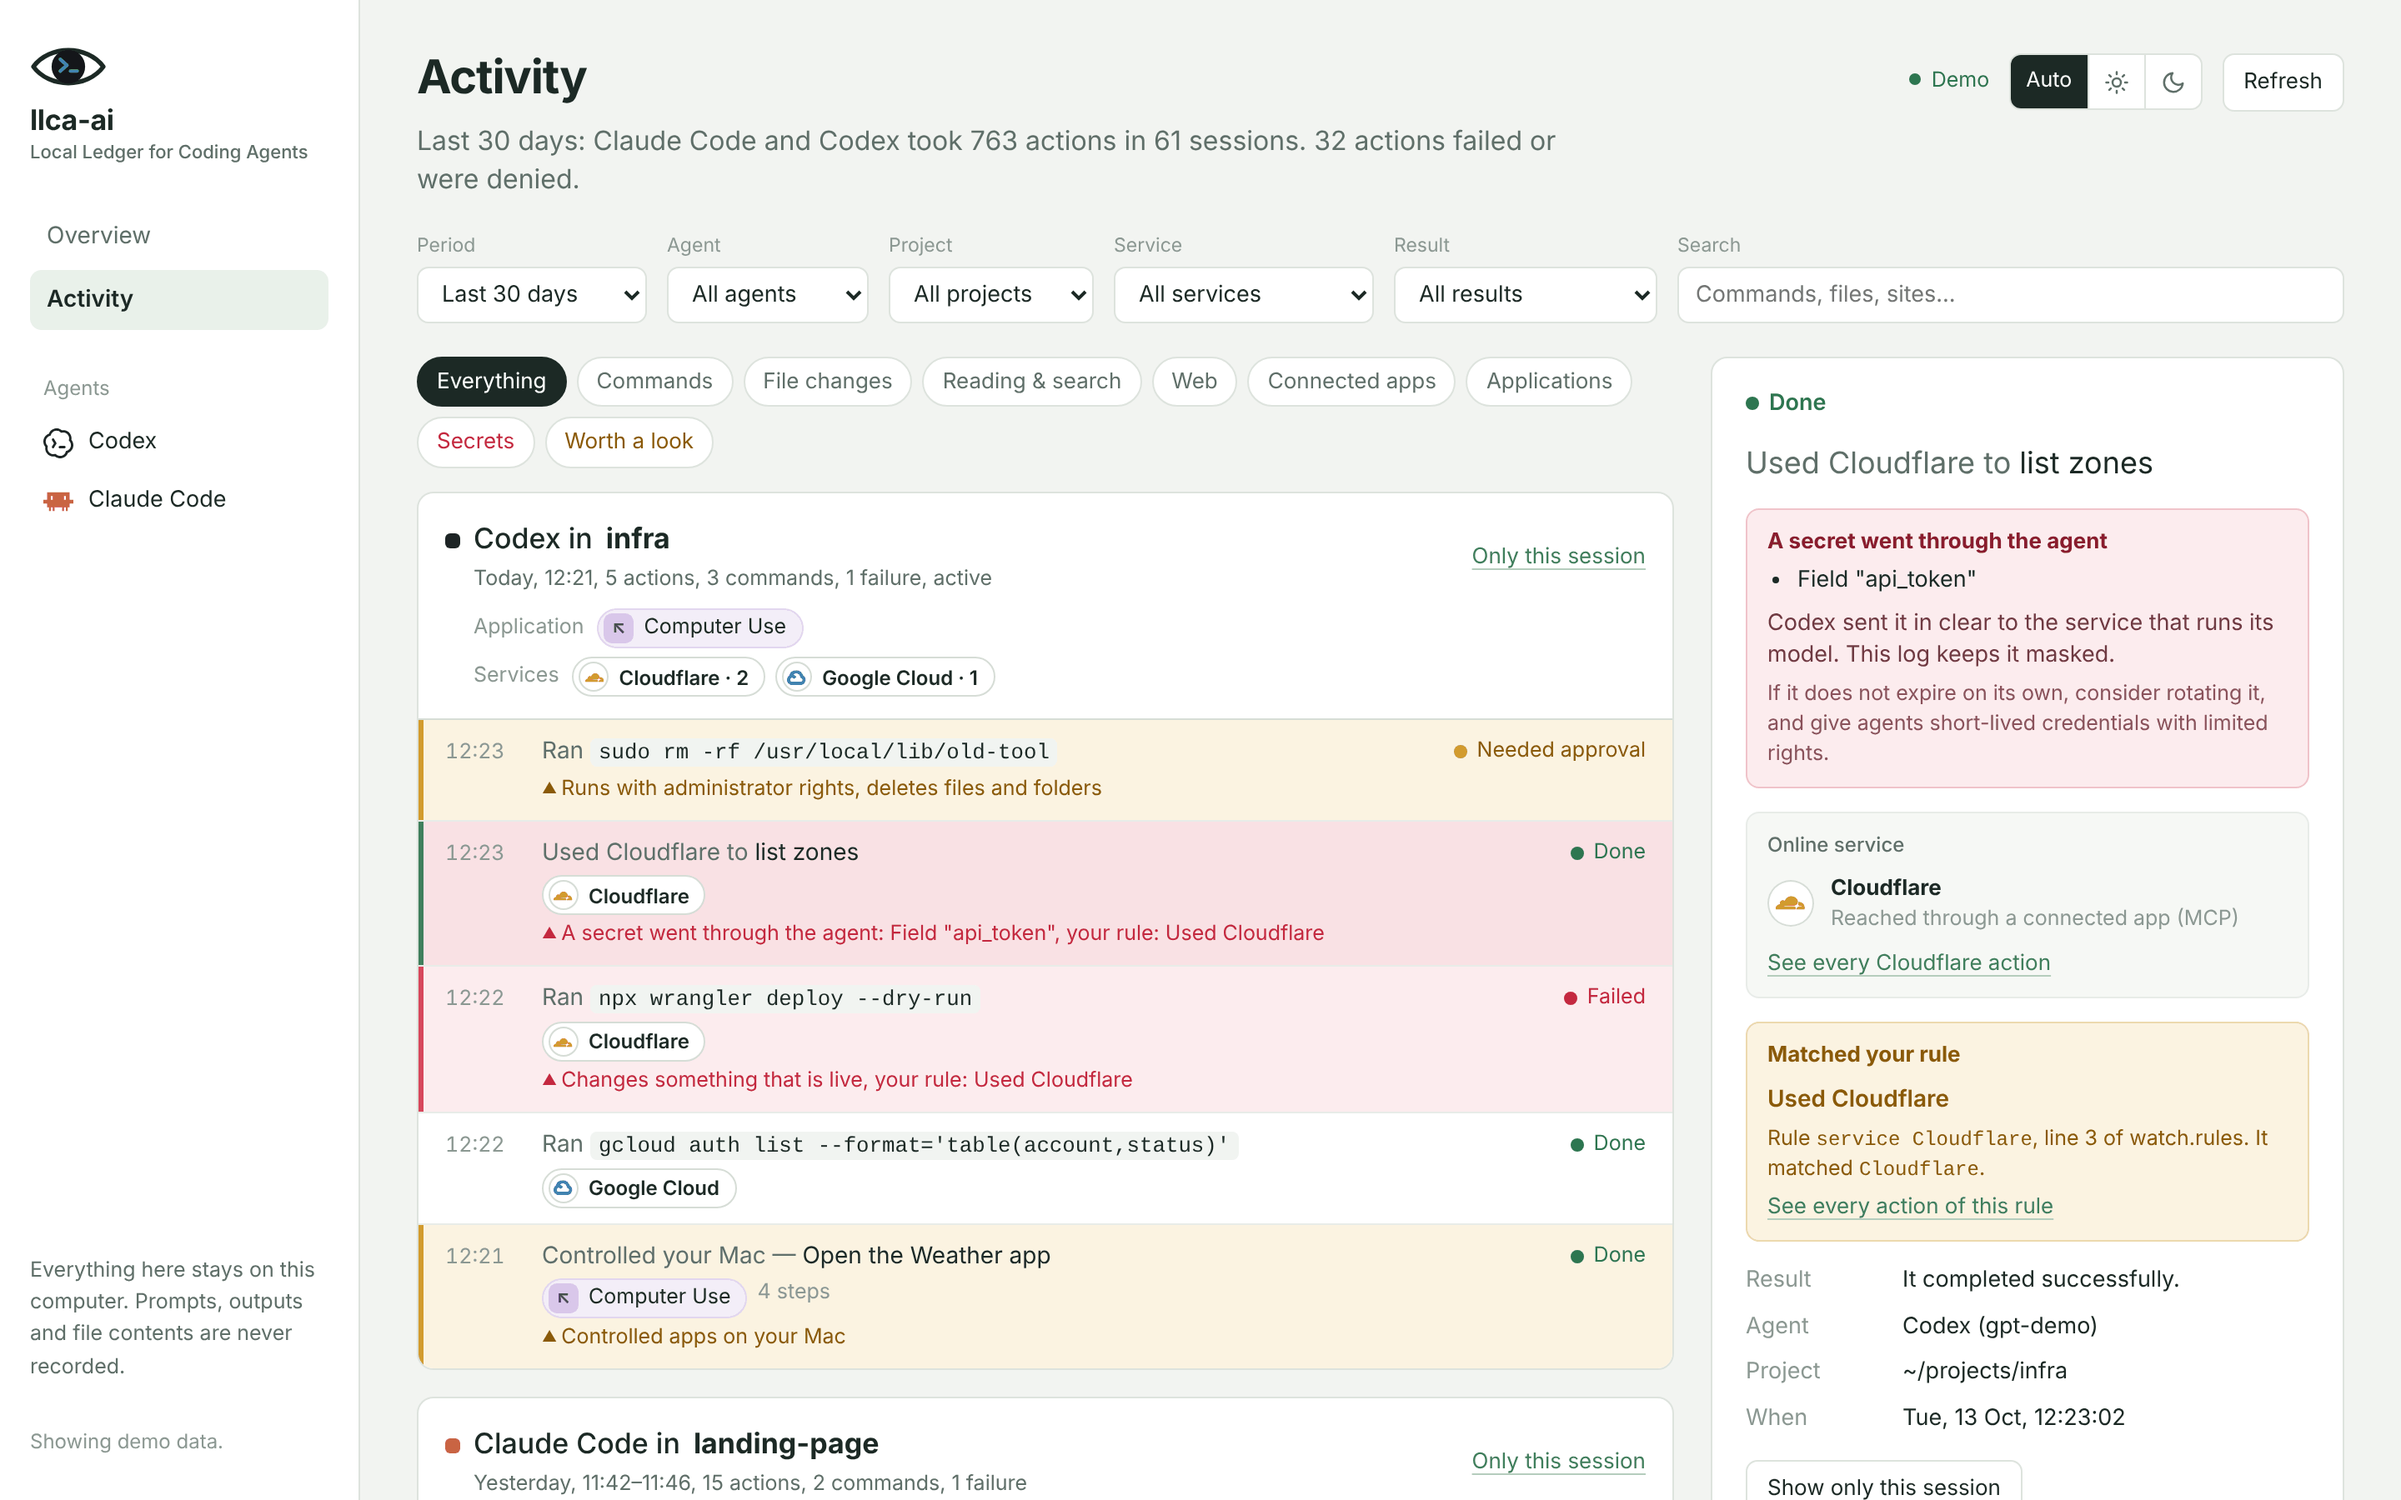
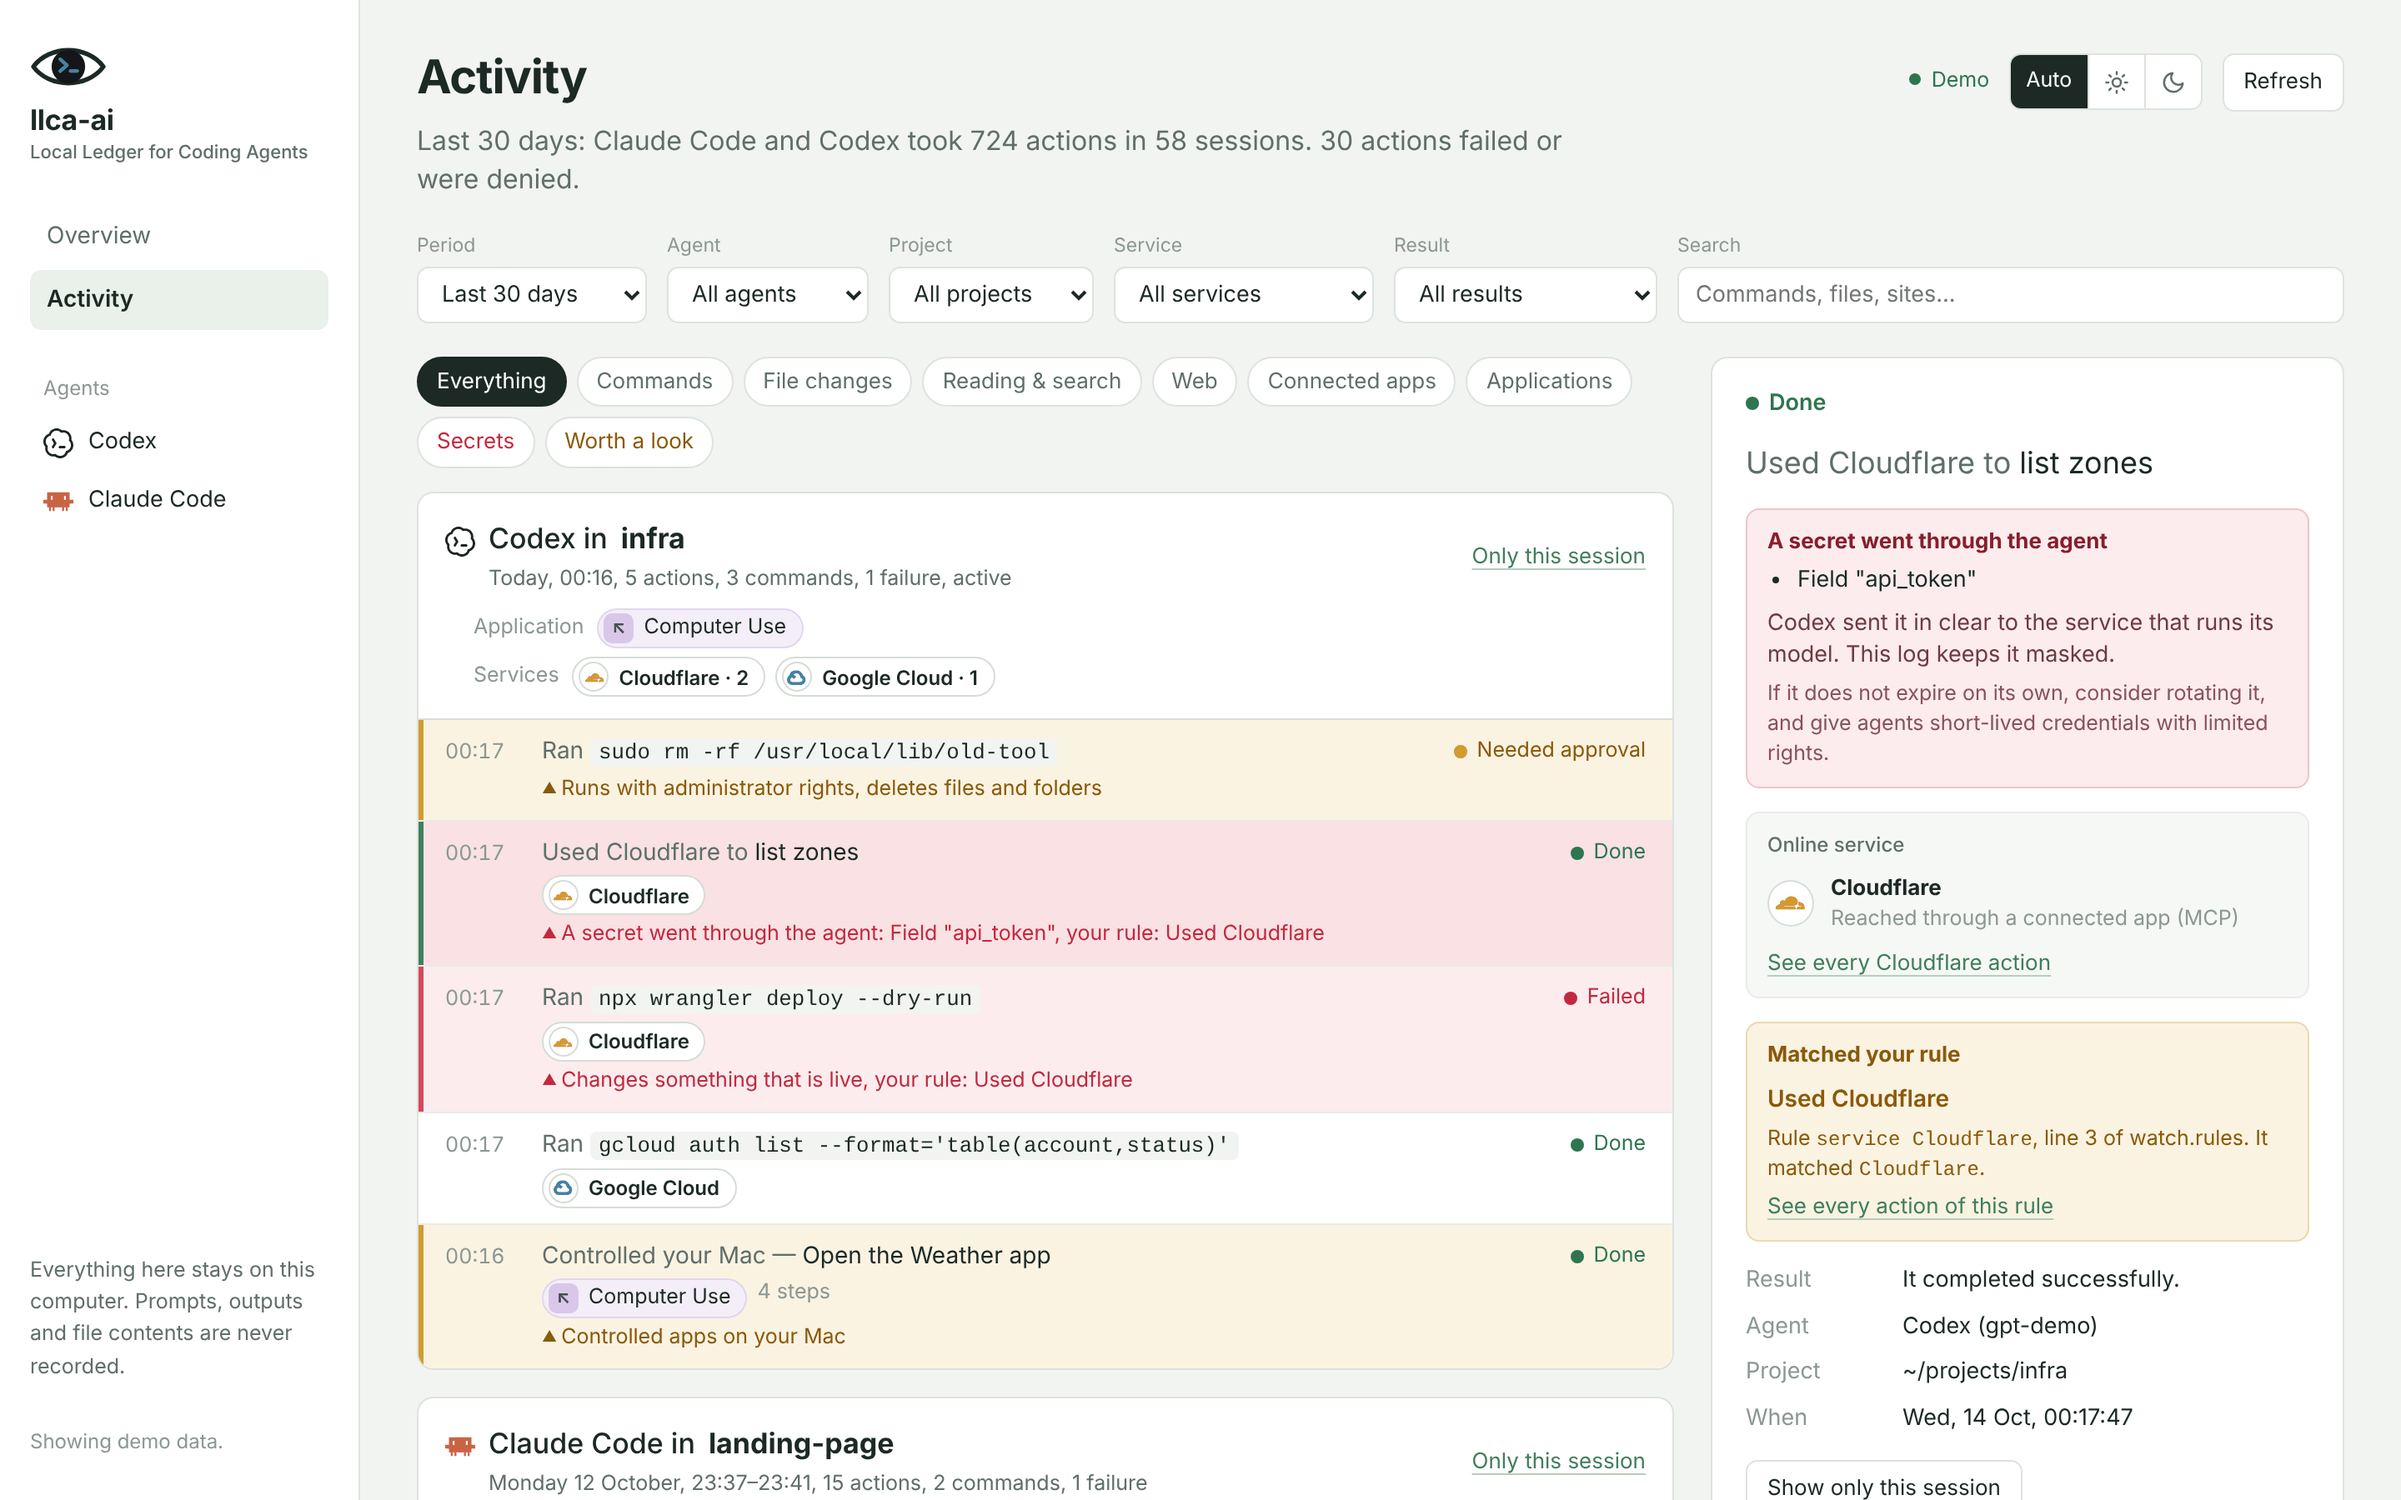
Screenshots script, Homebrew formula from prebuilt binaries, tap updated by the release

diff --git a/CONTRIBUTING.md b/CONTRIBUTING.md
@@ -101,3 +101,29 @@ Structural cases (heredoc bodies, private key blocks, `curl -u user:pass`,
 are handled in
 `src/redact.rs`, because their shape needs code. Changes there need Rust and
 a case in `rules/cases.txt` as well.
+
+## Screenshots
+
+The README screenshots come from `llca demo`, over the last 30 days, in light
+and dark. To take them again after changing the dashboard:
+
+```sh
+cargo build --release
+npm install --no-save playwright && npx playwright install chromium
+node scripts/screenshots.mjs
+```
+
+With Python and Pillow (`pip install pillow`), the images are reduced to 256
+colours, about a third of their size.
+
+## Releasing (maintainers)
+
+1. Set `version` in `Cargo.toml` and add a `## [X.Y.Z] - date` section at the
+   top of `CHANGELOG.md`. Commit, push, and wait for CI.
+2. `git tag vX.Y.Z && git push origin vX.Y.Z`. The release workflow tests,
+   builds the four archives (macOS arm64 and Intel, Linux x86_64 and arm64),
+   publishes the release with that version's notes, and updates the Homebrew
+   tap.
+3. Without the `HOMEBREW_TAP_TOKEN` secret, update the tap by hand:
+   `sh scripts/homebrew-formula.sh X.Y.Z > Formula/llca.rb` in
+   `llca-ai/homebrew-tap`, then commit and push.

diff --git a/README.md b/README.md
@@ -34,7 +34,7 @@ llca is a security and audit log, not a debugger. To replay full Claude Code tra
 
 ## Install
 
-With Homebrew, on macOS or Linux (it builds from source, which takes about a minute):
+With Homebrew, on macOS or Linux (it installs the prebuilt binary of the latest release, in a few seconds):
 
 ```sh
 brew install llca-ai/tap/llca
